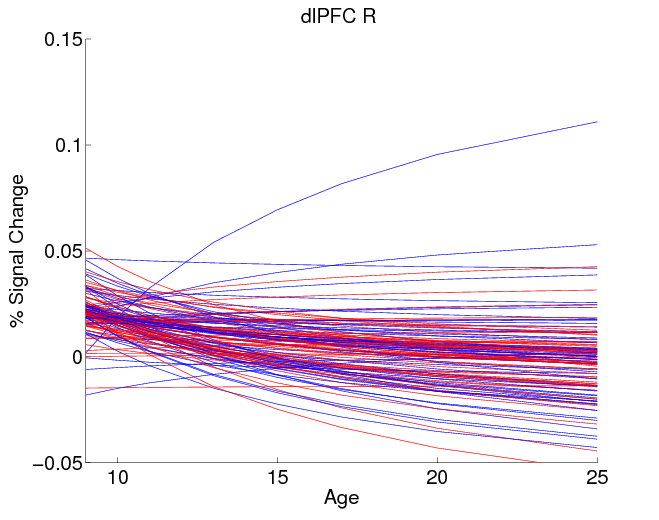
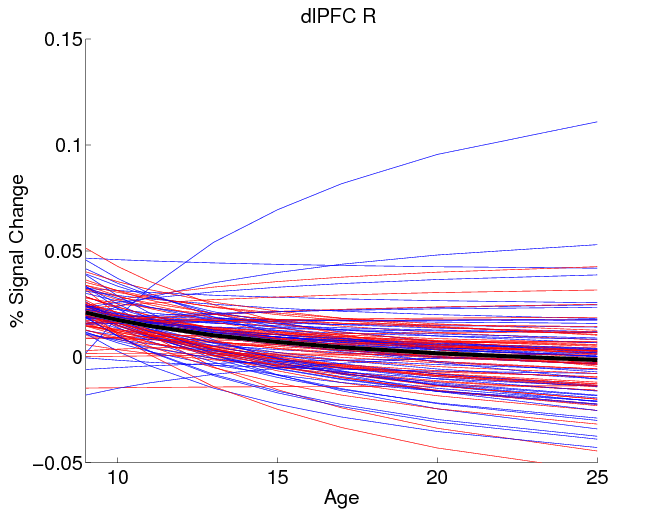
fix sqrt, put mean line everywhere, thicker, add jitter

Changed region(s): [[0.3338, 0.6462, 0.9105, 0.7077], [0.1821, 0.6154, 0.3338, 0.6462], [0.1214, 0.5846, 0.1821, 0.6154]]

diff --git a/ROIHLM/plotParallel.m b/ROIHLM/plotParallel.m
@@ -41,28 +41,28 @@ for i=1:length(files)
       continue
    end
 
+   % get region name -- csv files have been renamed to make this easy
+   r_name=name(1:end-4);                  % remove extension, now have ageC_insula_L
+   rname = regexprep(r_name,'_',' ');     % remove _
+   rname = regexprep(rname,'(inv)?ageC(sq)?',''); % remove age
 
-   % set x based on file name (inv or not)
-   if(regexp(name,'invage'))
-      plotx=invAgeC;
-      type='invage';
-   elseif(regexp(name,'ageCsq'))
-      plotx=AgeCsq;
-      type='agecsq';
-   else
-      plotx=AgeC;  
-      type='agec';
-   end
-
-    
-   % open file, skip the first row but don't ignore any columns
-   clear('intAndSlope')
-   intAndSlope = csvread([d, name],1,0);
 
    % get header
    fid    = fopen([d,name],'r');  
    header = textscan(fid,'%s',1,'delimiter','\n'); 
    headerCell = regexp(header{1},',','split');
+
+
+
+   % what type are we dealing with
+   if(regexp(name,'invage'))      type='invage';
+   elseif(regexp(name,'ageCsq'))  type='agecsq';
+   else                           type='agec';    end
+
+    
+   % open file, skip the first row but don't ignore any columns
+   clear('intAndSlope')
+   intAndSlope = csvread([d, name],1,0);
 
    % set indexes
    meanIntIdx   = find(cellfun(@isempty, strfind(headerCell{:},'fvintrcp')) ~= 1);
@@ -87,7 +87,6 @@ for i=1:length(files)
      disp(columns{missingColumns})
      continue
    end
-
 
 
    % deal with sex column ambiquity
@@ -115,17 +114,31 @@ for i=1:length(files)
       end
    end
 
+   % set mean, and get middle term for sq
+   if(regexp(name,'invage'))
+      yaxis_mean = intAndSlope(1,meanIntIdx) + invAgeC * intAndSlope(1,meanSlopeIdx);
+      xplot      = invAgeC;
+
+   elseif(regexp(name,'ageCsq'))
+          bIdx   = find(cellfun(@isempty, strfind(headerCell{:},'ebagec')) ~= 1);
+      meanbIdx   = find(cellfun(@isempty, strfind(headerCell{:},'fvagec')) ~= 1);
+      bIdx=bIdx(1);
+      meanbIdx=meanbIdx(1);
+      yaxis_mean = AgeCsq * intAndSlope(1,meanSlopeIdx) + AgeC * intAndSlope(1,meanbIdx) + intAndSlope(1,meanIntIdx);
+      xplot      = AgeCsq;
+   else
+      yaxis_mean = intAndSlope(1,meanIntIdx) + AgeC* intAndSlope(1,meanSlopeIdx);
+      xplot      = AgeC;
+   end
 
 
-   % get region name -- csv files have been renamed to make this easy
-   r_name=name(1:end-4);                  % remove extension, now have ageC_insula_L
-   rname = regexprep(r_name,'_',' ');     % remove _
-   rname = regexprep(rname,'(inv)?ageC(sq)?',''); % remove age
 
-   % plot
+
+   % plot labels
    fig=figure; hold on; 
-
    xlab='Age'; xaxis=9:25;
+
+   % latency, % errors, or % signal
    if (regexp(rname,'lat'))
       ylab='Latency (ms)';
       yl=[300 700];
@@ -141,17 +154,32 @@ for i=1:length(files)
    xlabel(xlab);ylabel(ylab); title(rname);
    xlim([min(xaxis),max(xaxis)]);ylim(yl);
    
-   % check that sex is right
+   % report what file we are on
    disp(['plotting file '  name ' as ' type]);
+
+
+   %%%%%%%%%%% begin plotting
+
 
    for i=1:length(intAndSlope)
     color = 'r';                                    % everyone is red
     if (intAndSlope(i,sexIdx) == 1); color='b'; end % unless male, then blue
     
     % plot this person
-    plot(xaxis, intAndSlope(i,intIdx) + plotx * intAndSlope(i,sloIdx), color);
+    yaxis =  xplot * intAndSlope(i,sloIdx)  + intAndSlope(i,intIdx);
+
+    % extra term for square
+    if(type=='agecsq')
+       yaxis = yaxis + AgeC * intAndSlope(i,bIdx);   
+    end
+    plot(xaxis, yaxis, color);
+
    end
 
+   % plot mean
+   plot(xaxis, yaxis_mean, 'k', 'LineWidth',4);
+
+   % save figure with _ delim roi_modelType
    hgexport(fig,['imgs_parallel/9-25-' r_name '.eps'])
 
 
@@ -165,16 +193,24 @@ for i=1:length(files)
    xlabel(xlab);ylabel(ylab); title(rname);
    xlim([min(xaxis),max(xaxis)]);ylim(yl);
 
-   plot(xaxis, intAndSlope(1,meanIntIdx) + plotx * intAndSlope(1,meanSlopeIdx), 'k');
-   disp(['   int   ' num2str(intAndSlope(1,meanIntIdx))])
-   disp(['   slope ' num2str(intAndSlope(1,meanSlopeIdx))])
+   % plot mean
+   plot(xaxis, yaxis_mean, 'k', 'LineWidth',4);
 
+   % print things we can check
+   %disp(['   int   ' num2str(intAndSlope(1,meanIntIdx))])
+   %disp(['   slope ' num2str(intAndSlope(1,meanSlopeIdx))])
+
+   % for each person, put a point at the mean
    for i=1:length(intAndSlope)
+    % add a little random jitter
+    %jitter=(randi(12,1,1) - 6)*1/24;  % random [-.25 .. +.25] 
+    jitter=randn(1,1,1)/4;  % random [-.25 .. +.25] 
+
     color = 'r';                                    % everyone is red
     if (intAndSlope(i,sexIdx) == 1); color='b'; end % unless male, then blue
     
     % plot this person
-    plot(16.7, intAndSlope(i,intIdx), ['x' color]);
+    plot(16.7+jitter, intAndSlope(i,intIdx), ['x' color]);
    end
 
    hgexport(fig,['imgs_parallel/9-25-meanWithDash-' r_name '.eps'])
